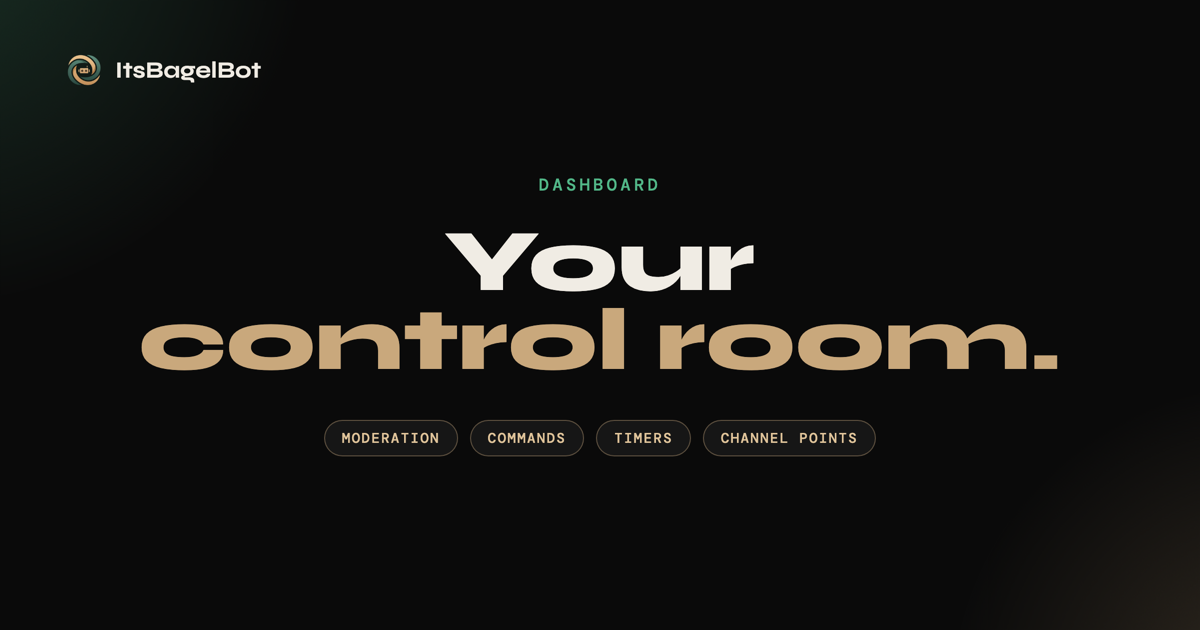
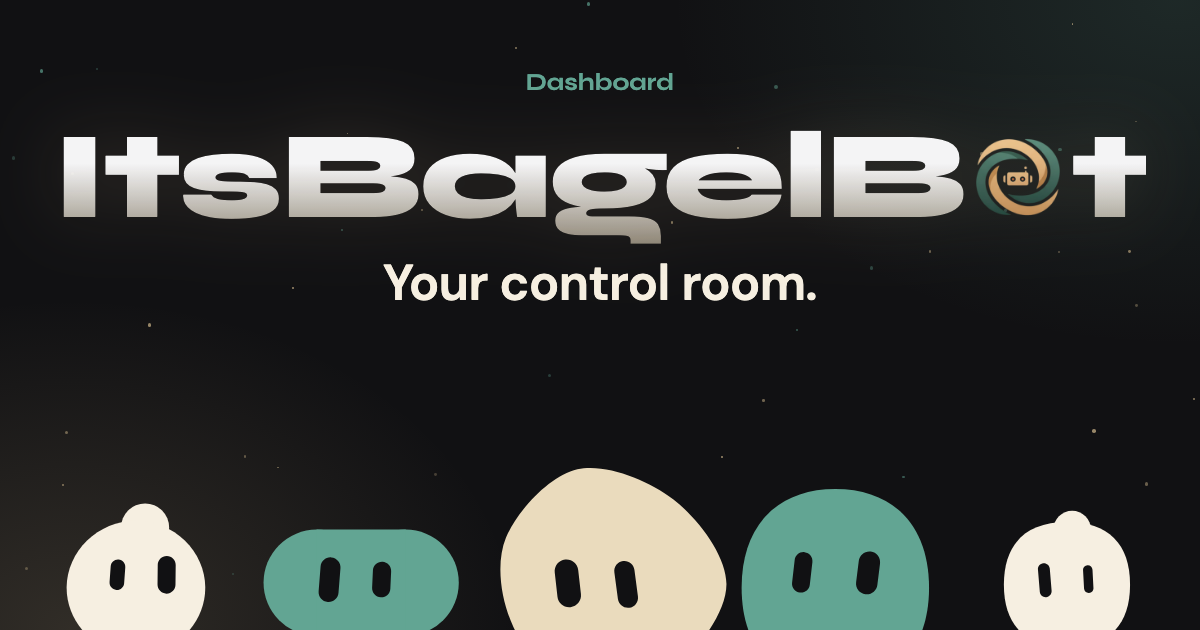
feat(web): new link preview cards without the old slogan
The site, dashboard and docs cards now use the hero wordmark, the current
headline and a row of bolotas peeking from the bottom edge. The slogan also
leaves the default page title and the docs landing hero. The image URLs get
a version so apps that cached the old card fetch the new one.

diff --git a/web/dashboard/src/app.html b/web/dashboard/src/app.html
@@ -21,12 +21,12 @@
 
   <meta property="og:site_name" content="ItsBagelBot" />
   <meta property="og:type" content="website" />
-  <meta property="og:image" content="https://dashboard.itsbagelbot.com/og-image.png" />
+  <meta property="og:image" content="https://dashboard.itsbagelbot.com/og-image.png?v=2" />
   <meta property="og:image:width" content="1200" />
   <meta property="og:image:height" content="630" />
   <meta property="og:image:alt" content="ItsBagelBot Dashboard" />
   <meta name="twitter:card" content="summary_large_image" />
-  <meta name="twitter:image" content="https://dashboard.itsbagelbot.com/og-image.png" />
+  <meta name="twitter:image" content="https://dashboard.itsbagelbot.com/og-image.png?v=2" />
 
   %sveltekit.head%
 </head>
